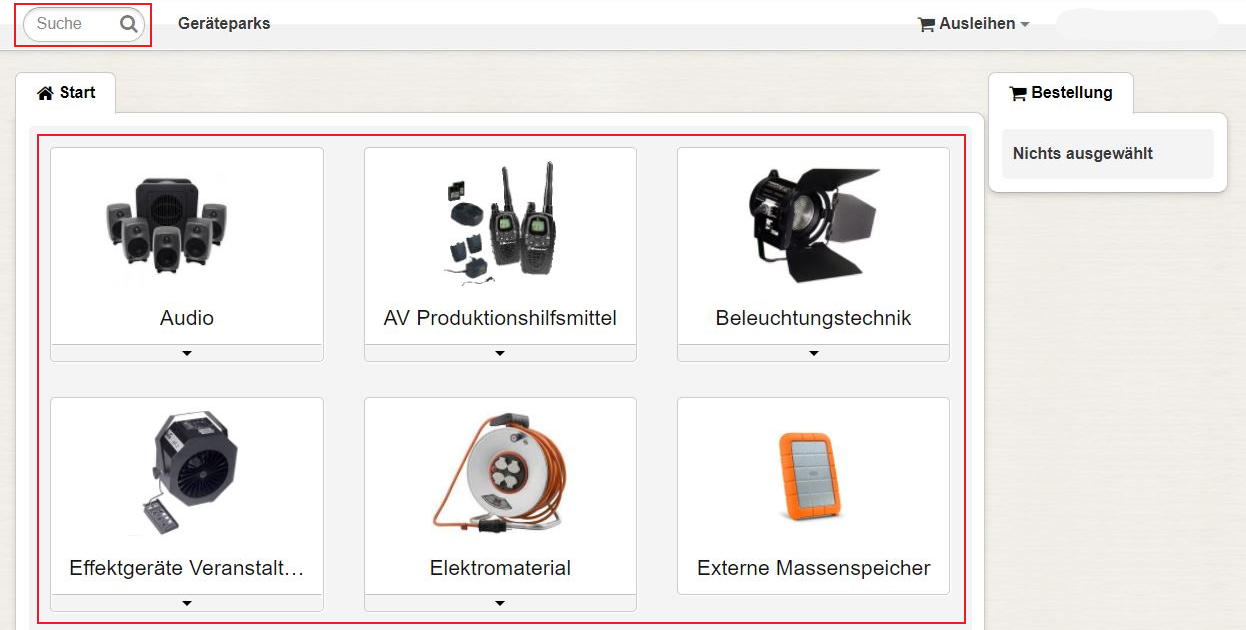
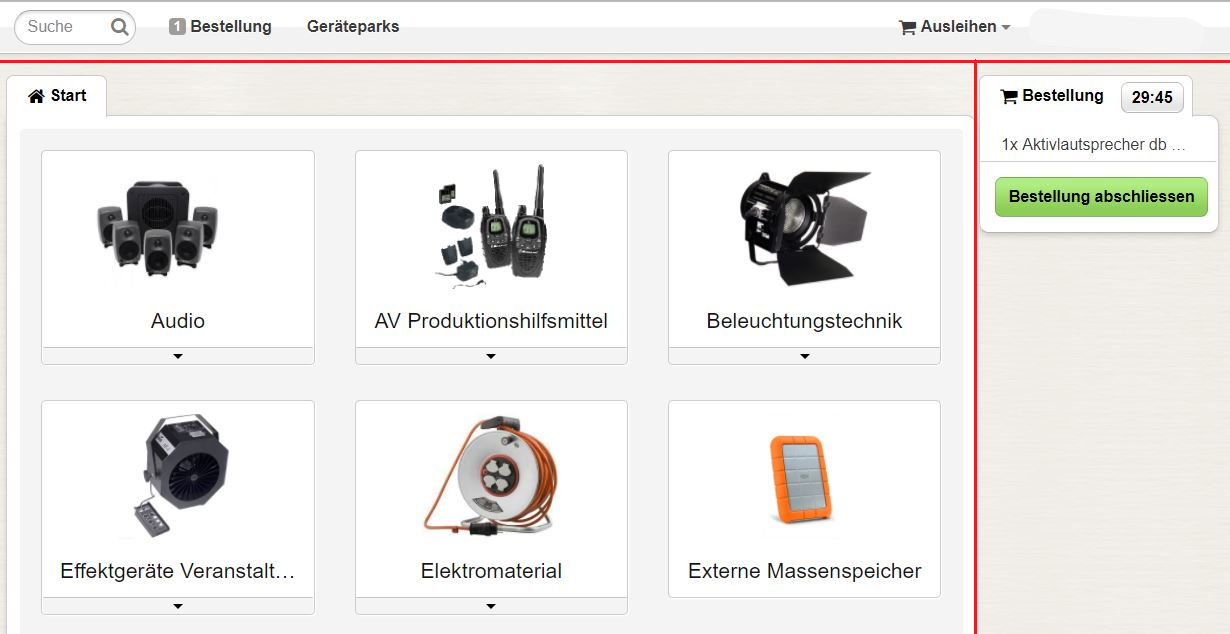
Updates README.md
Auto commit by GitBook Editor

diff --git a/README.md b/README.md
@@ -16,8 +16,17 @@ Erläuterungen zu den vielfältigen Funktionen von Leihs finden Sie in den Kapit
 * _Kategorie_: Gegenstände sind nach Verwendungszweck und Funktionalität geordnet. 
 * _Inventarnummer_: Jeder werthaltige Gegenstand im Besitz der ZHdK ist mit einer Inventarnummer in Leihst registriert.
 * _Option_: Kleinere Gegenstände von ergänzender Funktionalität wie beispielsweise Adapter oder Ladegeräte sind als Option ohne eigene Inventarnummer registriert. 
+* _Gerätepark_: Im Leihs können mehrere Kataloge verfügbar sein, im Normalfall ist allerdings nur einer \(Ausleihe Toni-Areal\). 
 
 #### Leihs-Startseite
 
 ![](/assets/Ausleihen_Start.png)
+
+Wenn Sie die leihs.zhdk.ch aufrufen, sehen Sie obenstehende Startseite der Leihs-Ausleihe. Diese ist in drei Bereiche unterteilt:
+
+* _Navigationsleiste _\(oben\): Mit der Suchfunktion können Sie den gesamten Leihs-Katalog durchsuchen. Mit "Bestellungen" gelangen Sie zur Übersicht über Ihre bestellten Gegenstände. "Geräteparks" zeigt Ihnen die entsprechende Beschreibung an. Falls Sie zum Verwalten des Inventars berechtigt sind, können Sie rechts zwischen Ausleihen und Verwalten wechseln. 
+* _Kategorien _\(links\): Klicken Sie auf eines der Kategorie-Bilder, um die zugehörigen Gegenstände anzusehen. Wenn Sie den Mauszeiger über das Dreiecksymbol einer Kategorie bewegen, können Sie direkt zu einer Subkategorie gelangen. 
+* _Warenkorb_ \(rechts\): Hier sehen Sie die von Ihnen vorgemerkten Gegenstände sowie deren Reservationszeit. Sie können Gegenstände für 30min vormerken, ohne diese definitiv zu bestellen. Klicken Sie auf "Reservation abschliessen", um zum Bestätigungsdialog Ihrer Bestellung zu gelangen. 
+
+
 
